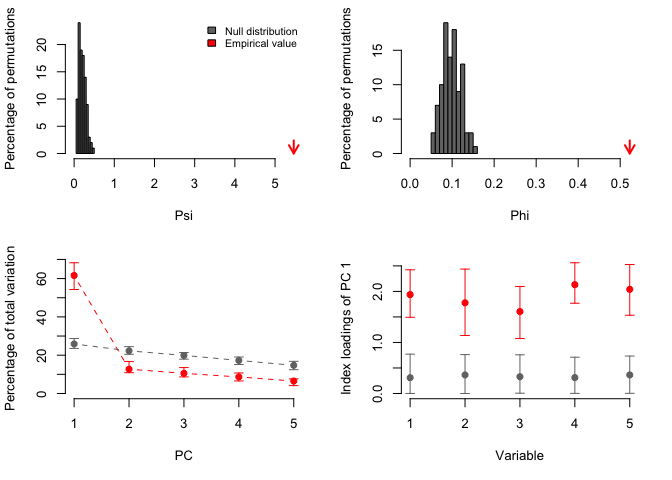
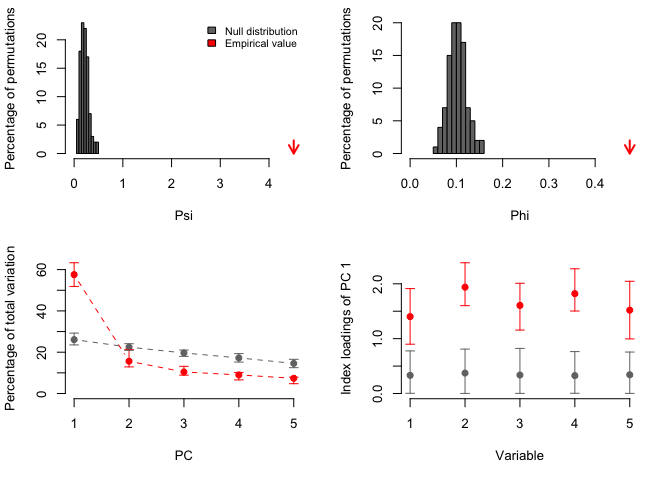
update readme

diff --git a/README.md b/README.md
@@ -36,7 +36,10 @@ devtools::install_github("arleyc/PCAtest")
 ``` r
 library(PCAtest)
 # PCA analysis of five uncorrelated variables
-data("ex0")
+library(MASS)
+mu <- c(0,0,0,0,0)
+Sigma <- matrix(c(rep(c(1,0,0,0,0,0),4),1),5)
+ex0 <- mvrnorm(100, mu = mu, Sigma = Sigma )
 result<-PCAtest(ex0, 100, 100, 0.05, varcorr=FALSE, counter=FALSE, plot=TRUE)
 #> 
 #> Sampling bootstrap replicates... Please wait
@@ -52,8 +55,8 @@ result<-PCAtest(ex0, 100, 100, 0.05, varcorr=FALSE, counter=FALSE, plot=TRUE)
 #> 100 bootstrap replicates, 100 random permutations
 #> ========================================================
 #> 
-#> Empirical Psi = 0.1691, Max null Psi = 0.4296, Min null Psi = 0.0324, p-value = 0.59
-#> Empirical Phi = 0.0920, Max null Phi = 0.1466, Min null Phi = 0.0403, p-value = 0.59
+#> Empirical Psi = 0.2299, Max null Psi = 0.5100, Min null Psi = 0.0372, p-value = 0.4
+#> Empirical Phi = 0.1072, Max null Phi = 0.1597, Min null Phi = 0.0431, p-value = 0.4
 #> 
 #> PCA is not significant!
 ```
@@ -62,7 +65,8 @@ result<-PCAtest(ex0, 100, 100, 0.05, varcorr=FALSE, counter=FALSE, plot=TRUE)
 
 ``` r
 #PCA analysis of five correlated (r=0.25) variables
-data("ex025")
+Sigma <- matrix(c(rep(c(1,0.25,0.25,0.25,0.25,0.25),4),1),5)
+ex025 <- mvrnorm(100, mu = mu, Sigma = Sigma )
 result<-PCAtest(ex025, 100, 100, 0.05, varcorr=FALSE, counter=FALSE, plot=TRUE)
 #> 
 #> Sampling bootstrap replicates... Please wait
@@ -78,25 +82,26 @@ result<-PCAtest(ex025, 100, 100, 0.05, varcorr=FALSE, counter=FALSE, plot=TRUE)
 #> 100 bootstrap replicates, 100 random permutations
 #> ========================================================
 #> 
-#> Empirical Psi = 1.1327, Max null Psi = 0.5166, Min null Psi = 0.0680, p-value = 0
-#> Empirical Phi = 0.2380, Max null Phi = 0.1607, Min null Phi = 0.0583, p-value = 0
+#> Empirical Psi = 2.3413, Max null Psi = 0.4924, Min null Psi = 0.0589, p-value = 0
+#> Empirical Phi = 0.3421, Max null Phi = 0.1569, Min null Phi = 0.0543, p-value = 0
 #> 
-#> Empirical eigenvalue #1 = 1.88693, Max null eigenvalue = 1.57397, p-value = 0
-#> Empirical eigenvalue #2 = 1.01454, Max null eigenvalue = 1.22064, p-value = 0.99
-#> Empirical eigenvalue #3 = 0.8287, Max null eigenvalue = 1.13383, p-value = 1
-#> Empirical eigenvalue #4 = 0.79299, Max null eigenvalue = 0.98174, p-value = 0.94
-#> Empirical eigenvalue #5 = 0.47684, Max null eigenvalue = 0.85547, p-value = 1
+#> Empirical eigenvalue #1 = 2.36135, Max null eigenvalue = 1.57297, p-value = 0
+#> Empirical eigenvalue #2 = 0.75291, Max null eigenvalue = 1.23965, p-value = 1
+#> Empirical eigenvalue #3 = 0.71891, Max null eigenvalue = 1.10155, p-value = 1
+#> Empirical eigenvalue #4 = 0.60379, Max null eigenvalue = 0.98527, p-value = 1
+#> Empirical eigenvalue #5 = 0.56303, Max null eigenvalue = 0.85324, p-value = 0.99
 #> 
-#> PC 1 is significant and accounts for 37.7% (95%-CI:33.1-44.1) of the total variation
+#> PC 1 is significant and accounts for 47.2% (95%-CI:39.6-56) of the total variation
 #> 
-#> Variables 2, and 3 have significant loadings on PC 1
+#> Variables 1, 2, 3, 4, and 5 have significant loadings on PC 1
 ```
 
 <img src="man/figures/README-example2-1.png" width="100%" />
 
 ``` r
 #PCA analysis of five correlated (r=0.5) variables
-data("ex05")
+Sigma <- matrix(c(rep(c(1,0.5,0.5,0.5,0.5,0.5),4),1),5)
+ex05 <- mvrnorm(100, mu = mu, Sigma = Sigma )
 result<-PCAtest(ex05, 100, 100, 0.05, varcorr=FALSE, counter=FALSE, plot=TRUE)
 #> 
 #> Sampling bootstrap replicates... Please wait
@@ -112,16 +117,16 @@ result<-PCAtest(ex05, 100, 100, 0.05, varcorr=FALSE, counter=FALSE, plot=TRUE)
 #> 100 bootstrap replicates, 100 random permutations
 #> ========================================================
 #> 
-#> Empirical Psi = 5.4655, Max null Psi = 0.4920, Min null Psi = 0.0634, p-value = 0
-#> Empirical Phi = 0.5228, Max null Phi = 0.1568, Min null Phi = 0.0563, p-value = 0
+#> Empirical Psi = 4.5082, Max null Psi = 0.4986, Min null Psi = 0.0690, p-value = 0
+#> Empirical Phi = 0.4748, Max null Phi = 0.1579, Min null Phi = 0.0587, p-value = 0
 #> 
-#> Empirical eigenvalue #1 = 3.08098, Max null eigenvalue = 1.55877, p-value = 0
-#> Empirical eigenvalue #2 = 0.63526, Max null eigenvalue = 1.23933, p-value = 1
-#> Empirical eigenvalue #3 = 0.52603, Max null eigenvalue = 1.12528, p-value = 1
-#> Empirical eigenvalue #4 = 0.43234, Max null eigenvalue = 0.97784, p-value = 1
-#> Empirical eigenvalue #5 = 0.3254, Max null eigenvalue = 0.84725, p-value = 1
+#> Empirical eigenvalue #1 = 2.87877, Max null eigenvalue = 1.54201, p-value = 0
+#> Empirical eigenvalue #2 = 0.78154, Max null eigenvalue = 1.27045, p-value = 1
+#> Empirical eigenvalue #3 = 0.52172, Max null eigenvalue = 1.07366, p-value = 1
+#> Empirical eigenvalue #4 = 0.4498, Max null eigenvalue = 0.99073, p-value = 1
+#> Empirical eigenvalue #5 = 0.36817, Max null eigenvalue = 0.84305, p-value = 1
 #> 
-#> PC 1 is significant and accounts for 61.6% (95%-CI:54.3-68.3) of the total variation
+#> PC 1 is significant and accounts for 57.6% (95%-CI:51.8-63.3) of the total variation
 #> 
 #> Variables 1, 2, 3, 4, and 5 have significant loadings on PC 1
 ```
@@ -147,18 +152,18 @@ result<-PCAtest(ants, 100, 100, 0.05, varcorr=FALSE, counter=FALSE, plot=TRUE)
 #> 100 bootstrap replicates, 100 random permutations
 #> ========================================================
 #> 
-#> Empirical Psi = 10.9186, Max null Psi = 2.6890, Min null Psi = 0.4898, p-value = 0
-#> Empirical Phi = 0.5099, Max null Phi = 0.2530, Min null Phi = 0.1080, p-value = 0
+#> Empirical Psi = 10.9186, Max null Psi = 2.7272, Min null Psi = 0.5626, p-value = 0
+#> Empirical Phi = 0.5099, Max null Phi = 0.2548, Min null Phi = 0.1157, p-value = 0
 #> 
-#> Empirical eigenvalue #1 = 3.84712, Max null eigenvalue = 2.21709, p-value = 0
-#> Empirical eigenvalue #2 = 1.52017, Max null eigenvalue = 1.88288, p-value = 0.15
-#> Empirical eigenvalue #3 = 0.70634, Max null eigenvalue = 1.39173, p-value = 1
-#> Empirical eigenvalue #4 = 0.41356, Max null eigenvalue = 1.15168, p-value = 1
-#> Empirical eigenvalue #5 = 0.34001, Max null eigenvalue = 1.00704, p-value = 1
-#> Empirical eigenvalue #6 = 0.14515, Max null eigenvalue = 0.7973, p-value = 1
-#> Empirical eigenvalue #7 = 0.02765, Max null eigenvalue = 0.5966, p-value = 1
+#> Empirical eigenvalue #1 = 3.84712, Max null eigenvalue = 2.32691, p-value = 0
+#> Empirical eigenvalue #2 = 1.52017, Max null eigenvalue = 1.64493, p-value = 0.17
+#> Empirical eigenvalue #3 = 0.70634, Max null eigenvalue = 1.36716, p-value = 1
+#> Empirical eigenvalue #4 = 0.41356, Max null eigenvalue = 1.10597, p-value = 1
+#> Empirical eigenvalue #5 = 0.34001, Max null eigenvalue = 0.90719, p-value = 1
+#> Empirical eigenvalue #6 = 0.14515, Max null eigenvalue = 0.80389, p-value = 1
+#> Empirical eigenvalue #7 = 0.02765, Max null eigenvalue = 0.60203, p-value = 1
 #> 
-#> PC 1 is significant and accounts for 55% (95%-CI:43.8-64.4) of the total variation
+#> PC 1 is significant and accounts for 55% (95%-CI:40-66.9) of the total variation
 #> 
 #> Variables 1, 2, 3, 4, 5, and 7 have significant loadings on PC 1
 ```
